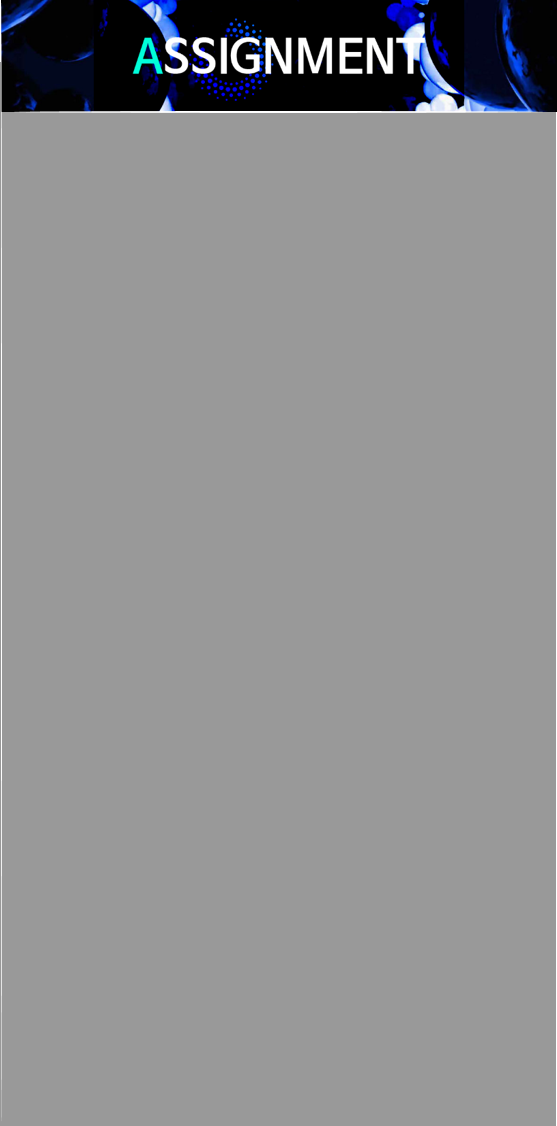
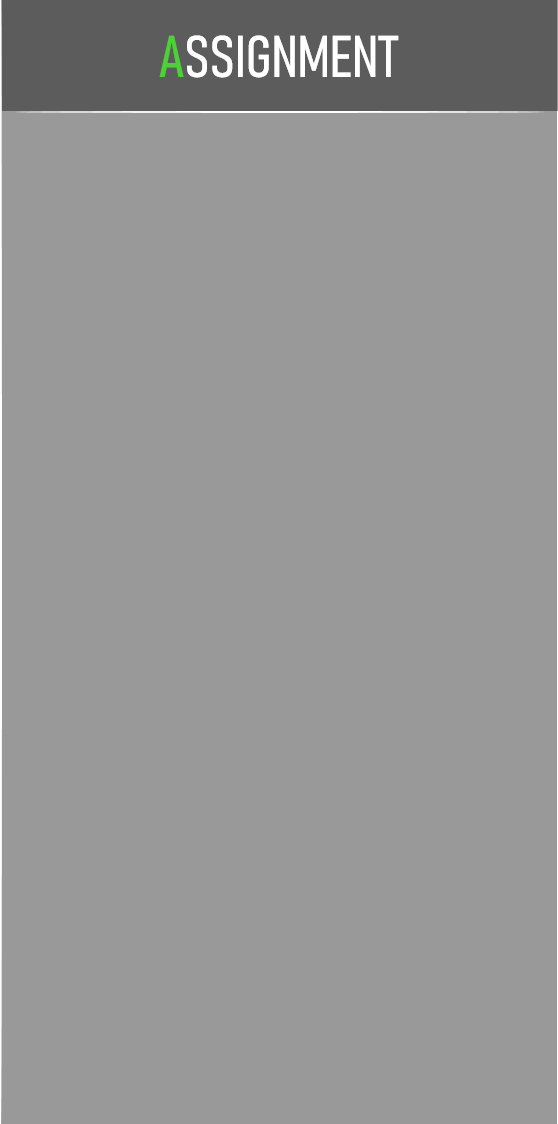
#82 Design : 사이드바 열고 닫기 구현

Changed region(s): [[0.0, 0.0, 1.0, 0.1246]]

diff --git a/src/pages/Assignments.js b/src/pages/Assignments.js
@@ -10,7 +10,6 @@ import Paper from "@mui/material/Paper";
 import CopyRadioButtonsGroup from "./proffessorCom/MUI/CopyRadioButtonsGroup";
 import MultipleSelect from "./proffessorCom/MUI/MultipleSelect";
 import MaxWidthDialog from "./proffessorCom/MUI/MaxWidthDialog";
-import asbg from "./proffessorCom/image/side_background.png";
 import bg from "./proffessorCom/image/bg01.png";
 import arrow from "./proffessorCom/image/arrow.gif";
 
@@ -28,6 +27,10 @@ const Assignments = (e) => {
 
   const [open, setOpen] = useState(false);
   const [detailName, setDetailName] = useState();
+
+  const [sideOpen, setSideOpen] = useState(true);
+  const [sideStyle, setSideStyle] = useState({});
+  const [arrowStyle, setArrowStyle] = useState({});
 
   const handleCopy = async () => {
     if (copy === "resultCopy") {
@@ -157,6 +160,24 @@ const Assignments = (e) => {
     setDetailName(name);
   };
 
+  const sideClickOpen = () => {
+    setSideOpen(!sideOpen);
+
+    if (sideOpen) {
+      setSideStyle({ transform: "translate(100%)", transition: "2s" });
+      setArrowStyle({
+        transform: "translate(450%) rotateY(180deg)",
+        transition: "2s",
+      });
+    } else {
+      setSideStyle({ transform: "translate(0%)", transition: "2s " });
+      setArrowStyle({
+        transform: "translate(0%) rotateY(0deg)",
+        transition: "2s",
+      });
+    }
+  };
+
   useEffect(() => {
     subjectAdd();
   }, []);
@@ -167,10 +188,7 @@ const Assignments = (e) => {
       style={{ backgroundImage: `url(${bg})`, backgroundSize: "cover" }}
     >
       <h1>채점 페이지</h1>
-      <div
-        className="buttonList"
-        style={{ backgroundImage: `url(${asbg})`, backgroundSize: "cover" }}
-      >
+      <div className="buttonList" style={sideStyle}>
         <div style={{ margin: "25% 0% 3% 3%" }}>
           <MultipleSelect
             subject={subject}
@@ -383,22 +401,10 @@ const Assignments = (e) => {
         </div>
       </div>
       <div
-        style={{
-          display: "inline-block",
-          height: "100vh",
-          width: "20%",
-          backgroundImage: `url(${arrow})`,
-        }}
-      >
-        {/* <img
-          src={arrow}
-          alt="arrow"
-          style={{
-            scale: "10%",
-            
-          }}
-        ></img> */}
-      </div>
+        className="arrow"
+        style={arrowStyle}
+        onClick={() => sideClickOpen()}
+      />
       <MaxWidthDialog
         open={open}
         setOpen={setOpen}

diff --git a/src/pages/proffessorCom/Assignments.css b/src/pages/proffessorCom/Assignments.css
@@ -2,6 +2,7 @@
   height: 100vh;
   width: 100%;
 }
+
 .assign h1 {
   text-align: center;
   color: white;
@@ -20,6 +21,8 @@
 }
 
 .buttonList {
+  background-image: url("./image/side_background.png");
+  background-size: cover;
   color: #f0f0f0;
   padding: "10%";
   height: 100vh;
@@ -84,6 +87,16 @@
   -ms-overflow-style: none;
 }
 
+.arrow {
+  display: inline-block;
+  height: 15%;
+  width: 11%;
+  background-image: url("./image/arrow.gif");
+  background-size: cover;
+  margin-bottom: 20%;
+  margin-left: 9%;
+  scale: 50%;
+}
 /* .assign .p-head span:nth-child(2) {
     width: 20%;
   } */
